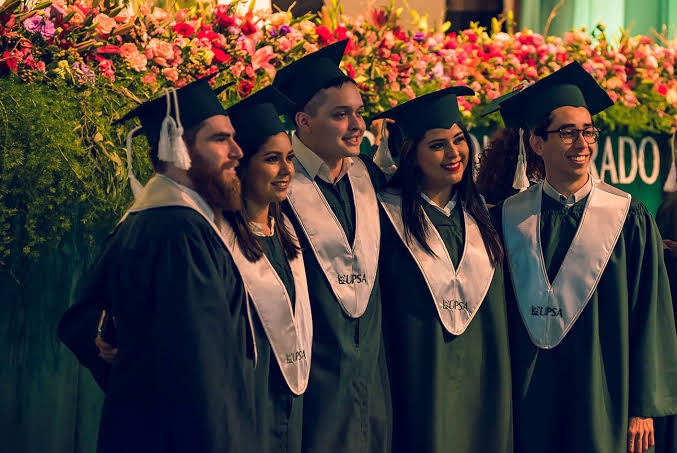
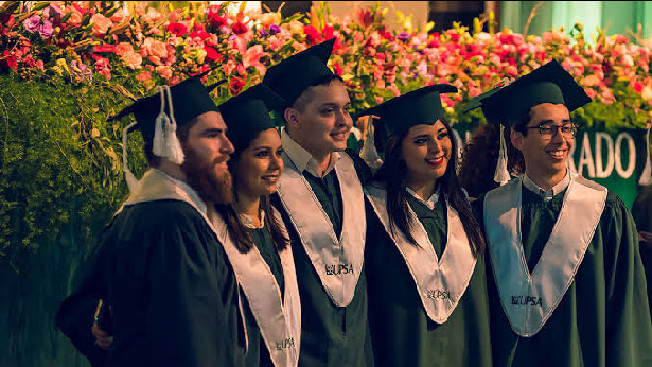
Trabajo

diff --git a/index.html b/index.html
@@ -10,22 +10,22 @@
 </head>
 <body>
     <nav class="navbar sticky-top navbar-expand-lg navbar-dark bg-dark bg-light">
-        <a class="navbar-brand" href="#">
+        <a class="navbar-brand" href="">
             <img src="img/cintillo-web.png" height="30" class="d-inline-block align-top" alt="">
         </a>
         <div class="collapse navbar-collapse">
             <ul class="navbar-nav mr-auto">
                 <li class="nav-item active">
-                    <a class="nav-link" href="#">Home <span class="sr-only">(current)</span></a>
+                    <a class="nav-link" href="#">Home<span class="sr-only">(current)</span></a>
                 </li>
                 <li class="nav-item">
-                    <a class="nav-link" href="#">Login</a>
+                    <a class="nav-link" href="login.php">Login</a>
                 </li>
             </ul>
         </div>
     </nav>
 
-    <section class="container">
+    <section class="container" id="CarouselPrincipal">
         <div id="carouselExampleInterval" class="carousel slide" data-ride="carousel">
             <div class="carousel-inner">
                 <div class="carousel-item active" data-interval="2000">
@@ -79,8 +79,8 @@
                                 <span class="input-group-text" id="basic-addon1">
                                     <i class="fas fa-user-circle"></i>
                                 </span>
-                                <input type="text" class="form-control" placeholder="usuario" aria-label="usuario" aria-describedby="basic-addon1" name="usuario">
                             </div>
+                            <input type="text" class="form-control" placeholder="usuario" aria-label="usuario" aria-describedby="basic-addon1" name="usuario">
                         </div>
                         <div class="input-group">
                             <div class="input-group-prepend">
@@ -101,7 +101,6 @@
                         <button class="btn btn-primary">Registrarse</button>
                     </form>
                     <hr class="my-2">
-                    <a class="btn btn-primary btn-lg" href="#" role="button">Registro</a>
                 </div>
             </section>
         </div>

diff --git a/prueba.html b/prueba.html
@@ -1,0 +1,23 @@
+<!DOCTYPE html>
+<html lang="en">
+<head>
+    <meta charset="UTF-8">
+    <link rel="stylesheet" href="css/main.css">
+    <title>Document</title>
+</head>
+<body>
+    <br><br><br>
+    <section class="container">
+        <section class="row">
+            <div class="col-md-4"></div>
+            <div class="col-md-4">
+                <div class="jumbotron">
+                    <h2 class="display-5">Registro exitoso</h2>
+                    <a type="button" href="login.php" class="btn btn-primary">Login</a>
+                </div>
+            </div>
+            <div class="col-md-4"></div>
+        </section>
+    </section>
+</body>
+</html>

diff --git a/main.scss b/main.scss
@@ -1,5 +1,5 @@
 $jumbotron-bg: #a9a5a559;
-$jumbotron-color: #ffffff; 
+$jumbotron-color: #ffffff;
 
 @import "node_modules/bootstrap/scss/bootstrap";
 
@@ -7,6 +7,10 @@ $jumbotron-color: #ffffff;
     background-image: url(../img/images.jpg);
     background-size: cover;
 }*/
+
+#CarouselPrincipal img{
+    height: 500px;
+}
 
 #Info{
     display: flex;

diff --git a/css/main.css b/css/main.css
@@ -9660,6 +9660,10 @@ h3 {
     background-image: url(../img/images.jpg);
     background-size: cover;
 }*/
+#CarouselPrincipal img {
+  height: 500px;
+}
+
 #Info {
   display: flex;
   align-items: center;

diff --git a/registroProceso.php b/registroProceso.php
@@ -1,3 +1,11 @@
+<!DOCTYPE html>
+<html lang="en">
+<head>
+    <meta charset="UTF-8">
+    <link rel="stylesheet" href="css/main.css">
+    <title>Sign Up</title>
+</head>
+<body>
 <?php
     include("conexion.php");
 
@@ -12,9 +20,39 @@
     $resultado = $conexionDB->query($statement);
 
     if($resultado){
-        echo "Si se inserto el registro";
+        echo "<nav class=\"navbar sticky-top navbar-expand-lg navbar-dark bg-dark bg-light\">
+        <a class=\"navbar-brand\" href=\"#\">
+            <img src=\"img/cintillo-web.png\" height=\"30\" class=\"d-inline-block align-top\" alt=\"\">
+        </a>
+        <div class=\"collapse navbar-collapse\">
+            <ul class=\"navbar-nav mr-auto\">
+                <li class=\"nav-item active\">
+                    <a class=\"nav-link\" href=\"index.html\">Home<span class=\"sr-only\">(current)</span></a>
+                </li>
+                <li class=\"nav-item\">
+                    <a class=\"nav-link\" href=\"login.php\">Login</a>
+                </li>
+            </ul>
+        </div>
+    </nav>
+        
+        <br><br><br>
+        <section class=\"container\">
+            <section class=\"row\">
+                <div class=\"col-md-4\"></div>
+                <div class=\"col-md-4\">
+                    <div class=\"jumbotron\">
+                        <h2 class=\"display-5\">Registro exitoso</h2>
+                        <a type=\"button\" href=\"login.php\" class=\"btn btn-primary\">Login</a>
+                    </div>
+                </div>
+                <div class=\"col-md-4\"></div>
+            </section>
+        </section>";
     }
     else{
         echo "No se inserto el registro";
     }
 ?>
+</body>
+</html>

diff --git a/conexion.php b/conexion.php
@@ -1,7 +1,8 @@
 <?php
+$conexionDB = new mysqli("localhost", "root", "TateTipycsnow", "graduacion4b");
 
-$conexionDB = new mysqli("sql313.byethost.com", "b16_24823612", "AssasinsCreed18", "b16_24823612_Graduacion");
 /*
+$conexionDB = new mysqli("sql313.byethost.com", "b16_24823612", "AssasinsCreed18", "b16_24823612_Graduacion");
 if($conexionDB->connect_error){
     die("Error en la conexion".$conexionDB->connect_error);
 }
